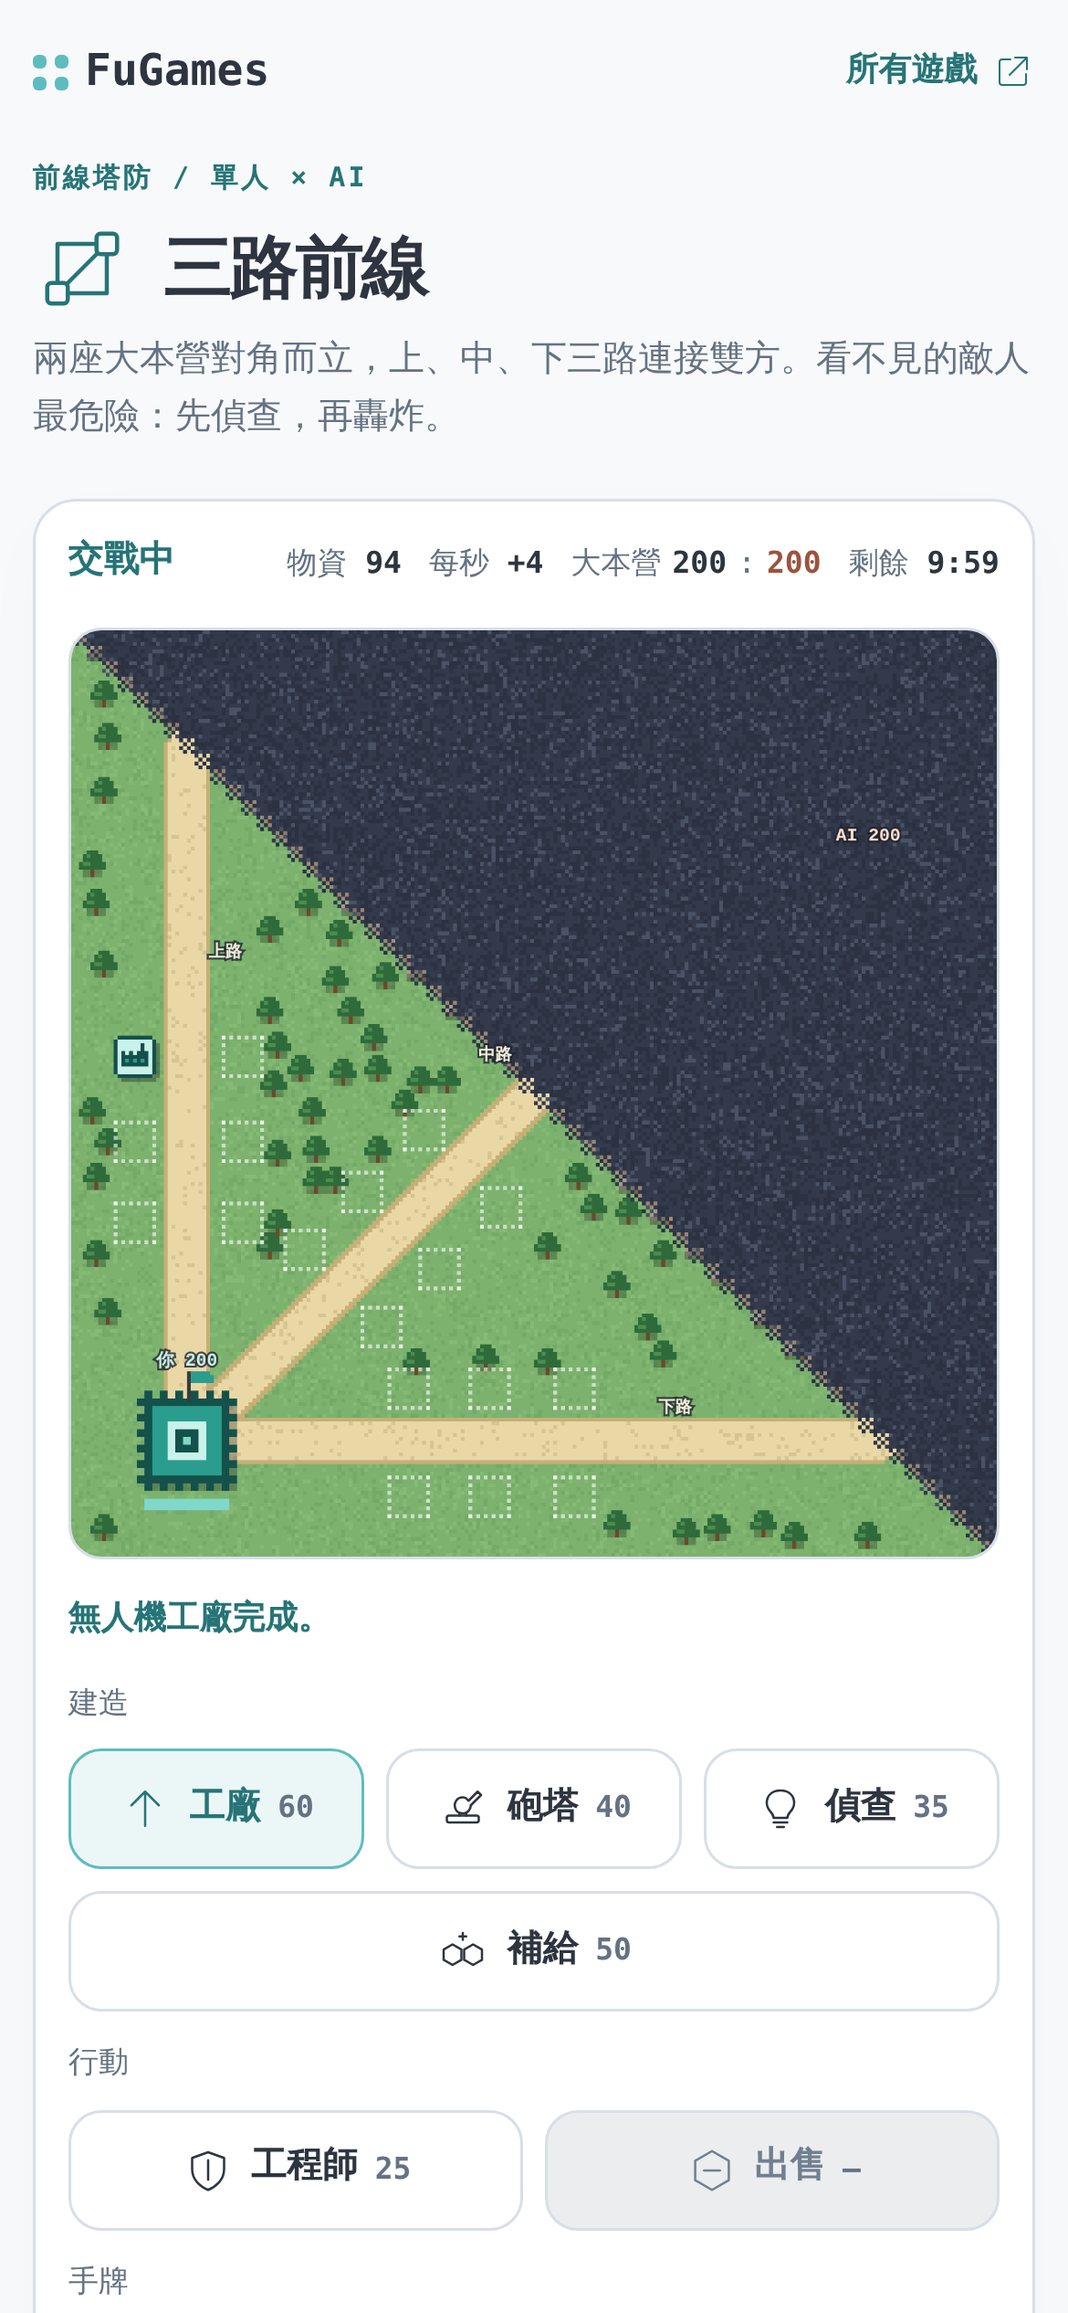
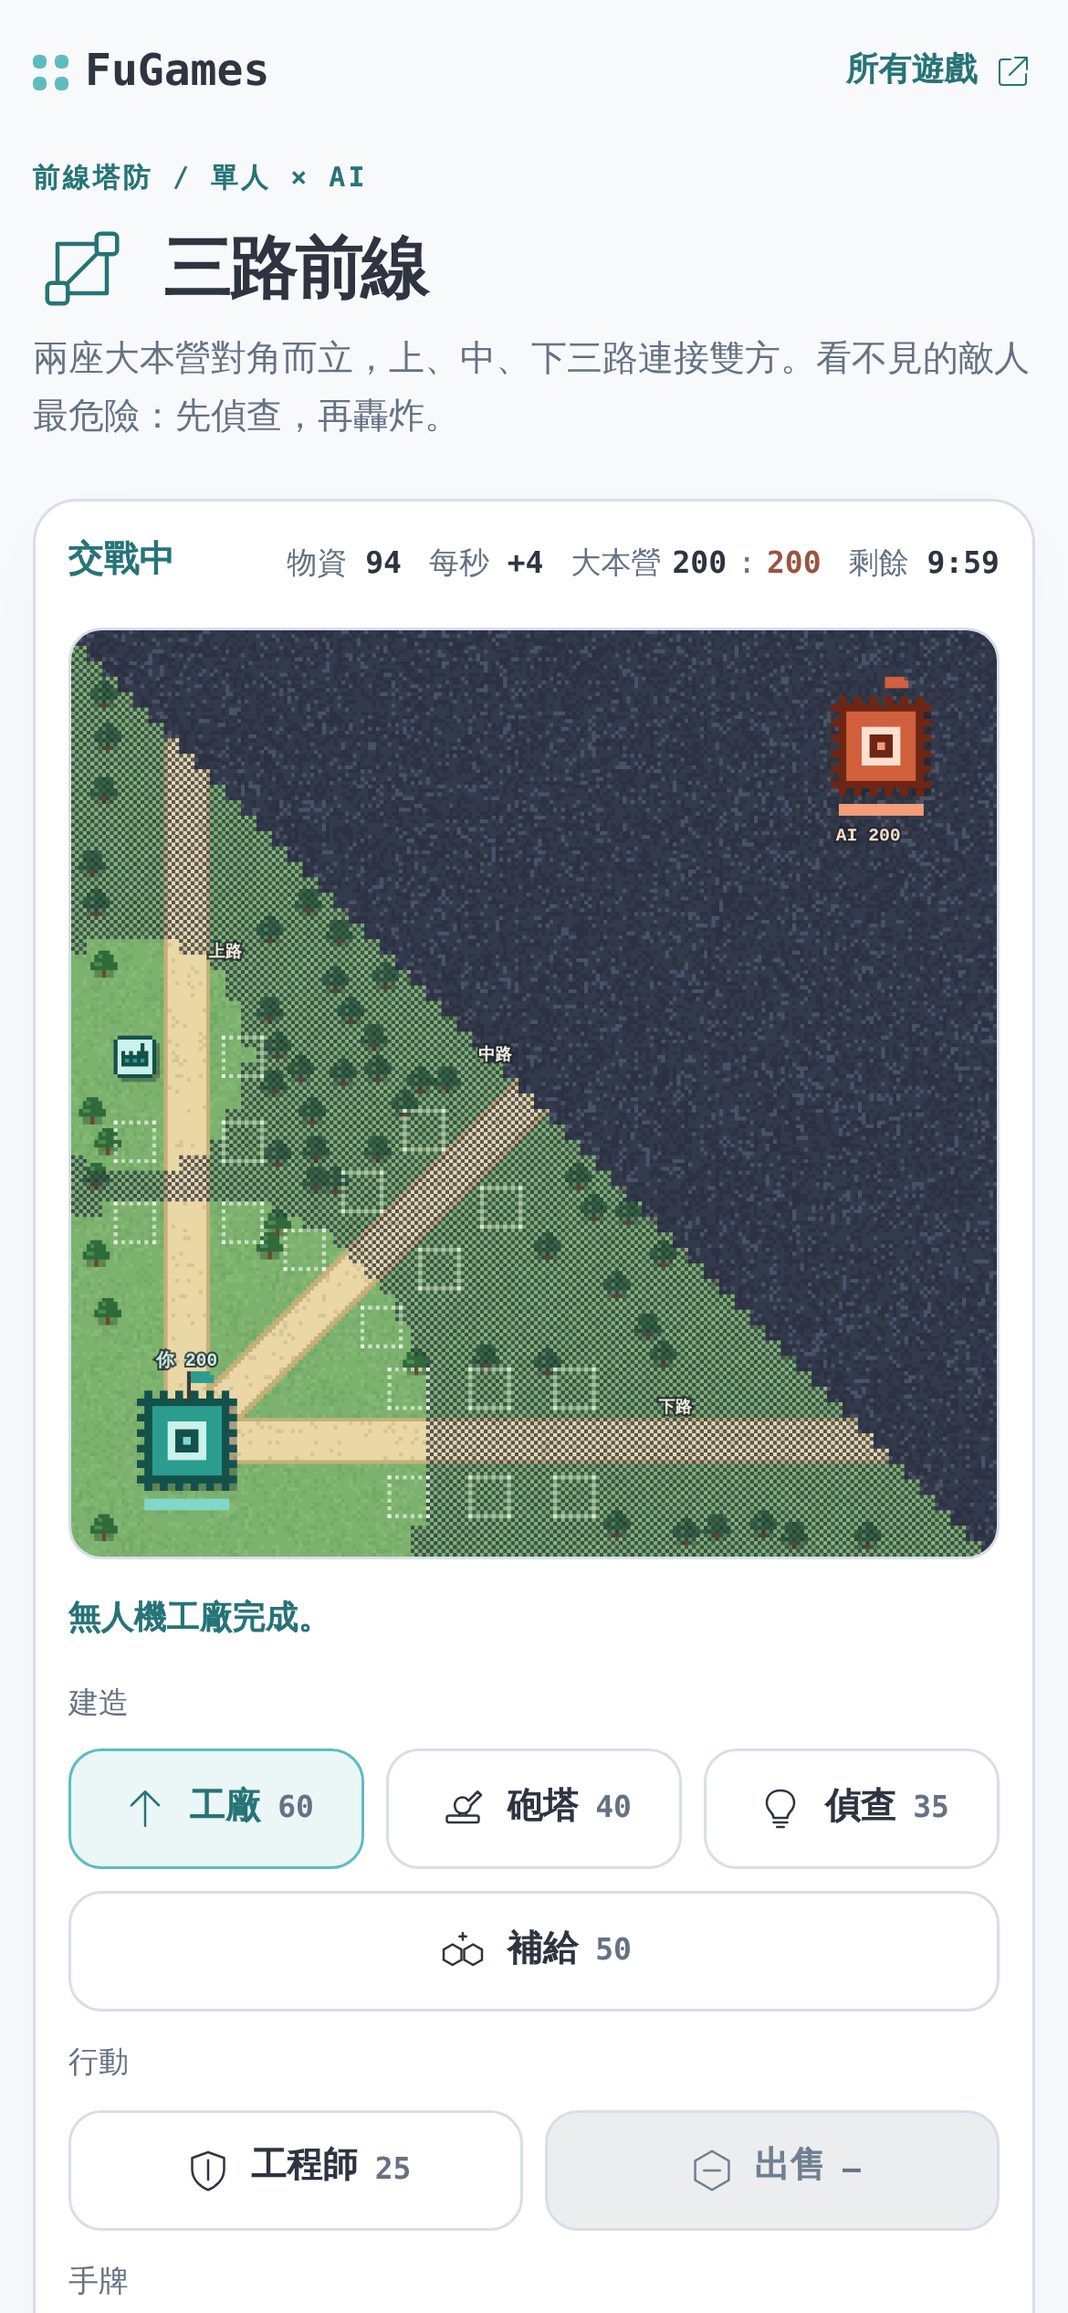
三路前線: fog follows each side's sight instead of a fixed half
Bases, buildings, drones and engineers each have a sight radius, and a
radar also watches its whole lane. Anything outside that is hidden on
either half of the map, so enemy drones slipping past your buildings
disappear too. The renderer shrouds unseen ground on your half lightly
and the enemy half heavily. Adds a rule test and refreshes the study.

Claude-Session: https://claude.ai/code/session_01H8hA4eycmS1rDK1HwXp3br

Changed region(s): [[0.0615, 0.2808, 0.9231, 0.6864], [0.7692, 0.2808, 0.8923, 0.3744]]

diff --git a/front_line.html b/front_line.html
@@ -69,8 +69,8 @@
     <details class="card rules"><summary>玩法與操作</summary><div class="rules-body"><ul class="list">
       <li>你的大本營在左下角，AI 的在右上角，對角虛線是前線。上路沿左邊與上緣、中路走對角線、下路沿下緣與右邊，三路都連接雙方大本營。每一路靠近自己大本營的地方有 6 個建築空位。大本營 200 點，被打到 0 就輸；10 分鐘到時大本營剩較多者勝。</li>
       <li><strong>無人機工廠</strong>每 8 秒連續放出 3 架無人機（每架 3 物資），沿著所在的路飛向敵方大本營。兩邊無人機在同一路迎面相遇會停下纏鬥；碰到敵方建築就停下攻擊，飛到底就撞擊大本營扣 4 點。中路最短，上下路較長。</li>
-      <li><strong>防空砲塔</strong>打射程內的敵方無人機（靠近大本營時三路很近，可以互相支援），每發砲彈消耗 0.5 物資。<strong>補給站</strong>每秒多 2 物資，<strong>偵查站</strong>讓你看清同一路的整段敵方陣地。</li>
-      <li><strong>迷霧</strong>：敵方陣地預設看不到。偵查站、自己的無人機附近、全圖偵察卡可以照亮；看過的建築會留下虛線「最後目擊」標記，但可能已經不在了。AI 也只知道它看得到的東西。</li>
+      <li><strong>防空砲塔</strong>打射程內的敵方無人機（靠近大本營時三路很近，可以互相支援），每發砲彈消耗 0.5 物資。<strong>補給站</strong>每秒多 2 物資，<strong>偵查站</strong>視野最大，還能看清它所在那一路從頭到尾的動靜。</li>
+      <li><strong>迷霧</strong>：只看得到自己單位視野內的地方。大本營、每座建築、無人機與工程師各有一圈視野（偵查站最大），沒有視野的地方就算在自己陣地也會蒙上淡霧，敵方陣地則是濃霧。全圖偵察卡可以暫時照亮全部；看過的敵方建築會留下「最後目擊」殘影，但可能已經不在了。AI 也只知道它看得到的東西。</li>
       <li><strong>物資</strong>：每秒基本 +4。工廠出機、砲塔開火都要物資，存量見底時工廠停工、砲塔啞火。出售建築取回一半。</li>
       <li><strong>工程師</strong>（25）從大本營走到指定的一路，15 秒內持續修理那一路受損最重的建築；每一路同時只能有一隊。</li>
       <li><strong>手牌</strong>每 20 秒抽一張：全圖偵察（8 秒看見全部）、轟炸（點任意位置，1.5 秒後落下，摧毀範圍內敵方無人機並重創建築）、電子干擾（點一路，擊落那一路的敵方無人機並讓敵方在那一路的工廠停工 8 秒）、物資空投（+100）。</li>
@@ -120,6 +120,8 @@
     };
     const DRONE = { hp: 36, speed: 55, damage: 10, hqDamage: 4, engage: 22, sight: 70, dogfight: 9, contact: 16 };
     const ENGINEER = { cost: 25, speed: 90, repair: 12, duration: 15 * TPS };
+    // Sight radius of everything a side owns; outside it the map is fogged, on either half.
+    const VISION = { base: 190, factory: 90, turret: 110, radar: 170, depot: 90, drone: DRONE.sight, engineer: 60 };
     const CARDS = {
       recon: { name: '全圖偵察', weight: 3, ticks: 8 * TPS },
       strike: { name: '轟炸', weight: 3, delay: 1.5 * TPS, radius: 75, damage: 140 },
@@ -230,11 +232,12 @@
       }
       // What `side` can see of the enemy half at a point in a lane.
       sees(side, x, y, lane) {
-        if (ownHalf(side, x, y)) return true;
-        const me = this.sides[side];
+        const me = this.sides[side], near = (o, r) => Math.hypot(o.x - x, o.y - y) <= r;
         if (me.revealUntil > this.tick) return true;
-        if (me.structures.some(s => s.type === 'radar' && s.lane === lane)) return true;
-        return this.drones.some(d => d.side === side && Math.hypot(d.x - x, d.y - y) <= DRONE.sight);
+        if (near(BASE[side], VISION.base)) return true;
+        // A radar watches its whole lane, all the way to the enemy base.
+        if (me.structures.some(s => (s.type === 'radar' && s.lane === lane) || near(s, VISION[s.type]))) return true;
+        return this.drones.some(d => d.side === side && near(d, VISION.drone)) || this.engineers.some(e => e.side === side && near(e, VISION.engineer));
       }
       updateIntel(side) {
         const intel = this.intel[side], foe = this.sides[1 - side];
@@ -483,7 +486,7 @@
       return null;
     }
 
-    return { Game, SIZE, LANES, TPS, DT, TIME_LIMIT, PAY_TICKS, CARD_TICKS, FIRST_CARD, HAND, START_SUPPLY, BASE_INCOME, HQ_HP, BASE, BASE_REACH, PATHS, LANE_NAMES, ROWS, SELL_RATE, MAX_DRONES,
+    return { Game, SIZE, LANES, TPS, DT, TIME_LIMIT, PAY_TICKS, CARD_TICKS, FIRST_CARD, HAND, START_SUPPLY, BASE_INCOME, HQ_HP, BASE, BASE_REACH, VISION, PATHS, LANE_NAMES, ROWS, SELL_RATE, MAX_DRONES,
       STRUCTS, DRONE, ENGINEER, CARDS, PROFILES, laneLength, lanePoint, slotPos, ownHalf, planAI, strikeTarget, seededRandom };
   })();
   </script>
@@ -594,12 +597,12 @@
       }
     }
   })();
-  // Each fog cell remembers which lanes' enemy stretch a radar there would light up.
+  // Each fog cell remembers which lanes a radar would light it through, and which half of the map it is on.
   const fogLanes = new Uint8Array(CELLS * CELLS), enemyCell = new Uint8Array(CELLS * CELLS);
   for (let cy = 0; cy < CELLS; cy++) for (let cx = 0; cx < CELLS; cx++) {
     const x = (cx + .5) * CELL * PX, y = (cy + .5) * CELL * PX, i = cy * CELLS + cx;
     enemyCell[i] = F.ownHalf(1, x, y) ? 1 : 0;
-    for (let lane = 0; lane < F.LANES; lane++) if (laneDistance(x, y, lane, F.laneLength(lane) / 2) <= 70) fogLanes[i] |= 1 << lane;
+    for (let lane = 0; lane < F.LANES; lane++) if (laneDistance(x, y, lane) <= 40) fogLanes[i] |= 1 << lane;
   }
   let prevPos = new Map(), fx = [], hqFlash = [0, 0];
   const lerpPos = (o, t) => { const p = prevPos.get(o.id); return p ? { x: p.x + (o.x - p.x) * t, y: p.y + (o.y - p.y) * t } : { x: o.x, y: o.y }; };
@@ -665,6 +668,33 @@
         if (n < .5) dot(bp(q.x) + Math.round((n - .25) * 40), bp(q.y) + Math.round((hash(tick, Math.floor(pos)) - .5) * 20), n < .25 ? '#ffffff' : team[side].h);
       }
     }
+    // Fog: everything outside your sight is covered by dithered cells; ground you hold is only lightly shrouded.
+    if (!all && g.sides[0].revealUntil <= tick) {
+      let lit = 0;
+      const eyes = [{ x: F.BASE[0].x, y: F.BASE[0].y, r: F.VISION.base }];
+      for (const s of g.sides[0].structures) { eyes.push({ x: s.x, y: s.y, r: F.VISION[s.type] }); if (s.type === 'radar') lit |= 1 << s.lane; }
+      for (const d of g.drones) if (d.side === 0) eyes.push({ x: d.x, y: d.y, r: F.VISION.drone });
+      for (const e of g.engineers) if (e.side === 0) eyes.push({ x: e.x, y: e.y, r: F.VISION.engineer });
+      const seen = new Uint8Array(CELLS * CELLS);
+      for (let i = 0; i < seen.length; i++) {
+        if (fogLanes[i] & lit) { seen[i] = 1; continue; }
+        const x = (i % CELLS + .5) * CELL * PX, y = (Math.floor(i / CELLS) + .5) * CELL * PX;
+        seen[i] = eyes.some(o => Math.hypot(o.x - x, o.y - y) <= o.r) ? 1 : 0;
+      }
+      const drift = Math.floor(tick / 10);
+      for (let cy = 0; cy < CELLS; cy++) for (let cx = 0; cx < CELLS; cx++) {
+        const i = cy * CELLS + cx;
+        if (seen[i]) continue;
+        const edge = (cx > 0 && seen[i - 1]) || (cx < CELLS - 1 && seen[i + 1]) || (cy > 0 && seen[i - CELLS]) || (cy < CELLS - 1 && seen[i + CELLS]);
+        const deep = enemyCell[i], x0 = cx * CELL, y0 = cy * CELL;
+        for (let y = 0; y < CELL; y++) for (let x = 0; x < CELL; x++) {
+          const px = x0 + x, py = y0 + y;
+          if ((edge || !deep) && (px + py) % 2) continue;
+          const n = hash(px + drift, py);
+          dot(px, py, deep ? (n < .12 ? '#4a5266' : n < .5 ? '#2c3242' : '#323a4c') : (n < .5 ? '#2c3242cc' : '#323a4ccc'));
+        }
+      }
+    }
     // Empty own slots.
     for (let lane = 0; lane < F.LANES; lane++) for (let slot = 0; slot < 6; slot++) {
       if (g.structureAt(0, lane, slot)) continue;
@@ -676,31 +706,6 @@
     for (const s of g.sides[1].structures) if (all || g.sees(0, s.x, s.y, s.lane)) drawBuilding(s, 1);
     for (const e of g.engineers) if (e.side === 0 || all || g.sees(0, e.x, e.y, e.lane)) drawEngineer(e, t, tick);
     for (const d of g.drones) if (d.side === 0 || all || g.sees(0, d.x, d.y, d.lane)) drawDrone(d, t, tick);
-    // Fog: dithered cells over the enemy half, with a softer checkerboard where it meets vision.
-    if (!all && g.sides[0].revealUntil <= tick) {
-      let lit = 0;
-      for (const s of g.sides[0].structures) if (s.type === 'radar') lit |= 1 << s.lane;
-      const own = g.drones.filter(d => d.side === 0 && F.ownHalf(1, d.x, d.y));
-      const seen = new Uint8Array(CELLS * CELLS);
-      for (let i = 0; i < seen.length; i++) {
-        if (!enemyCell[i] || fogLanes[i] & lit) { seen[i] = 1; continue; }
-        const x = (i % CELLS + .5) * CELL * PX, y = (Math.floor(i / CELLS) + .5) * CELL * PX;
-        seen[i] = own.some(d => Math.hypot(d.x - x, d.y - y) <= F.DRONE.sight) ? 1 : 0;
-      }
-      const drift = Math.floor(tick / 10);
-      for (let cy = 0; cy < CELLS; cy++) for (let cx = 0; cx < CELLS; cx++) {
-        const i = cy * CELLS + cx;
-        if (seen[i]) continue;
-        const edge = (cx > 0 && seen[i - 1]) || (cx < CELLS - 1 && seen[i + 1]) || (cy > 0 && seen[i - CELLS]) || (cy < CELLS - 1 && seen[i + CELLS]);
-        const x0 = cx * CELL, y0 = cy * CELL;
-        for (let y = 0; y < CELL; y++) for (let x = 0; x < CELL; x++) {
-          const px = x0 + x, py = y0 + y;
-          if (edge && (px + py) % 2) continue;
-          const n = hash(px + drift, py);
-          dot(px, py, n < .12 ? '#4a5266' : n < .5 ? '#2c3242' : '#323a4c');
-        }
-      }
-    }
     // Last sightings of enemy buildings.
     const ghosts = [];
     if (!all) for (const k of g.intel[0].values()) if (!g.sees(0, k.x, k.y, k.lane)) { drawBuilding(k, 1, tick % 30 < 20 ? .55 : .35); ghosts.push(k); }

diff --git a/docs/front-line-2026-10-12/validation.md b/docs/front-line-2026-10-12/validation.md
@@ -1,10 +1,10 @@
 # 三路前線驗證紀錄
 
[2 lines of base64/hex data omitted]
 
 ## 畫面
 
-戰場以 240×240 的像素緩衝繪製（一格像素 = 3 個棋盤單位），再以不平滑放大到畫布，所以所有地形、建築、無人機與特效都是像素風。地形（你方草地與樹、AI 方焦土與岩石、沙色道路、對角前線虛點）只在載入時算一次。迷霧以 12×12 單位的格子判定，未見的格子畫成深色抖動像素，和可見區相鄰的格子只畫棋盤格一半，邊緣較柔和。無人機是 9×9 的四旋翼精靈圖，旋翼兩格動畫交替，身後有尾跡；畫面在兩個 20 TPS 模擬步之間內插位置，移動是連續的。砲塔射擊有曳光、工廠出機會冒煙、被擊落的無人機和被摧毀的建築有像素爆炸，大本營被撞時會閃白。文字（路名、大本營耐久、殘影秒數）在放大後的畫布上另外繪製，保持清晰。
+戰場以 240×240 的像素緩衝繪製（一格像素 = 3 個棋盤單位），再以不平滑放大到畫布，所以所有地形、建築、無人機與特效都是像素風。地形（你方草地與樹、AI 方焦土與岩石、沙色道路、對角前線虛點）只在載入時算一次。迷霧以 12×12 單位的格子判定，依你方大本營、建築、無人機與工程師的視野圈即時計算；敵方半邊沒視野的格子畫成深色抖動像素，你方半邊沒視野的格子只畫半透明棋盤格（淡霧），和可見區相鄰的格子也只畫棋盤格一半，邊緣較柔和。無人機是 9×9 的四旋翼精靈圖，旋翼兩格動畫交替，身後有尾跡；畫面在兩個 20 TPS 模擬步之間內插位置，移動是連續的。砲塔射擊有曳光、工廠出機會冒煙、被擊落的無人機和被摧毀的建築有像素爆炸，大本營被撞時會閃白。文字（路名、大本營耐久、殘影秒數）在放大後的畫布上另外繪製，保持清晰。
 
 ## 規則
 
@@ -15,7 +15,7 @@
 - 建築：
   - 無人機工廠 60：蓋好 3 秒後開始，每 8 秒放出一波 3 架無人機（間隔 0.4 秒），每架消耗 3 物資；物資不足或被干擾時停工。
   - 防空砲塔 40：射程 140，每 0.8 秒一發 9 傷害，優先打離自己大本營最近的敵機（靠近大本營時三路很近，砲塔可以支援隔壁路）；每發消耗 0.5 物資，沒物資就不能開火。
-  - 偵查站 35：揭開它所在那一路的整段敵方陣地。
+  - 偵查站 35：視野半徑 170，並照亮它所在那一路從頭到尾的整條路。
   - 補給站 50：收入 +2／秒。
   - 出售取回成本一半。
 - 無人機：36 血、每秒沿路前進 55 px。與同一路敵機距離 16 px 內就停下纏鬥（雙方同時扣血），碰到敵方建築那一排就攻擊血最少的建築，抵達敵方大本營 40 px 內造成 4 傷害。視野 70 px，能替己方揭開周圍的迷霧。
@@ -25,7 +25,8 @@
   - 轟炸（權重 3）：點任一位置，1.5 秒後半徑 75 內的敵方建築受 140 傷害（工廠 120 血會被摧毀），敵機與敵方工程師全滅。
   - 電子干擾（權重 2）：選一路，擊落對方在該路的所有無人機，並讓對方該路工廠停工 8 秒。
   - 物資空投（權重 2）：物資 +100。
-- 迷霧與情報：曾經看見的敵方建築會留下虛線殘影並標示幾秒前看到；之後看見該位置已空才會消失。
+- 迷霧依視野而定，不是固定切一半：大本營視野 190、工廠與補給站 90、砲塔 110、偵查站 170、無人機 70、工程師 60（單位：棋盤 px）。不在任何視野內的地方都看不到，自己陣地也一樣；敵方無人機深入你方沒有建築的地方時你也看不到它。全圖偵察期間全部可見。
+- 情報：曾經看見的敵方建築會留下虛線殘影並標示幾秒前看到；之後看見該位置已空才會消失。
 - 任一方大本營歸零即落敗，同時歸零平手；10 分鐘到時大本營耐久高者勝，相同平手。
 
 ## AI
@@ -47,7 +48,7 @@ AI 透過與玩家相同的 `build`／`sell`／`sendEngineer`／`useCard` 行動
 
 ## 規則測試
 
-`node --test tests/front-line.test.cjs` 通過 **23 / 23**，約 14 秒，輸出見 [core-tests.log](core-tests.log)。涵蓋：三路都連接兩座大本營、上路在左上角轉向、中路最短、建築格位置、雙方點對稱且互不重疊、蓋建築的階段／格子／物資檢查、出售退一半、每秒發餉、補給站與難度收入、抽卡時機與上限、卡牌權重分布、四張卡的效果（偵察時效、轟炸延遲與範圍且不誤傷己方、干擾擊落與停工、空投）、工廠波次與每架耗物資、無物資不出機、無人機沿路前進／纏鬥同時扣血／攻擊建築／撞大本營、砲塔鎖定最近威脅與耗彈、無物資不開火、工程師一路一名與優先修最傷的建築、偵查站與無人機只揭開所在位置、情報殘影何時消失、AI 只讀看得見的資訊、轟炸 AI 的目標選擇、所有勝負與平手、暫停凍結、同 seed 完全重現。
+`node --test tests/front-line.test.cjs` 通過 **24 / 24**，約 33 秒，輸出見 [core-tests.log](core-tests.log)。涵蓋：迷霧隨自己的大本營／建築／無人機／工程師視野而定（自己陣地沒視野也看不到）、三路都連接兩座大本營、上路在左上角轉向、中路最短、建築格位置、雙方點對稱且互不重疊、蓋建築的階段／格子／物資檢查、出售退一半、每秒發餉、補給站與難度收入、抽卡時機與上限、卡牌權重分布、四張卡的效果（偵察時效、轟炸延遲與範圍且不誤傷己方、干擾擊落與停工、空投）、工廠波次與每架耗物資、無物資不出機、無人機沿路前進／纏鬥同時扣血／攻擊建築／撞大本營、砲塔鎖定最近威脅與耗彈、無物資不開火、工程師一路一名與優先修最傷的建築、偵查站與無人機只揭開所在位置、情報殘影何時消失、AI 只讀看得見的資訊、轟炸 AI 的目標選擇、所有勝負與平手、暫停凍結、同 seed 完全重現。
 
 另含兩組固定 seed AI 對戰：8 局普通對普通（每 tick 檢查物資非負、手牌與無人機數量有界，並確認四種建築、轟炸、卡牌、摧毀都有發生，雙方座位都會贏），以及 6 個 seed × 換座位的難度順序（困難勝普通至少 60%，普通勝簡單至少 70%）。
 
@@ -57,12 +58,12 @@ AI 透過與玩家相同的 `build`／`sell`／`sendEngineer`／`useCard` 行動
 
 | 對戰 | 局數 | 結果 | 強者勝率 | 平均每局摧毀建築 | 中位數時長 |
 | --- | --- | --- | --- | --- | --- |
-| 普通 vs 普通 | 20 | 先手座位 8、後手座位 9、平手 3 | — | 23.3 | 4.0 分 |
-| 困難 vs 普通 | 40 | 困難 27、普通 6、平手 7 | 68% | 22.6 | 3.3 分 |
-| 普通 vs 簡單 | 40 | 普通 38、簡單 2 | 95% | 24.9 | 3.6 分 |
-| 困難 vs 簡單 | 40 | 困難 39、平手 1 | 98% | 14.9 | 2.3 分 |
+| 普通 vs 普通 | 20 | 先手座位 8、後手座位 10、平手 2 | — | 22.9 | 3.8 分 |
+| 困難 vs 普通 | 40 | 困難 28、普通 7、平手 5 | 70% | 22.6 | 3.2 分 |
+| 普通 vs 簡單 | 40 | 普通 38、簡單 2 | 95% | 21.0 | 3.6 分 |
+| 困難 vs 簡單 | 40 | 困難 40 | 100% | 14.9 | 2.5 分 |
 
-普通對普通每局雙方合計約 45 座建築、400 架無人機、26 張卡（其中約 8 次轟炸），約 23 座建築被摧毀。
+普通對普通每局雙方合計約 43 座建築、340 架無人機、25 張卡（其中約 8 次轟炸），約 23 座建築被摧毀。
 
 ## 瀏覽器檢查
 
